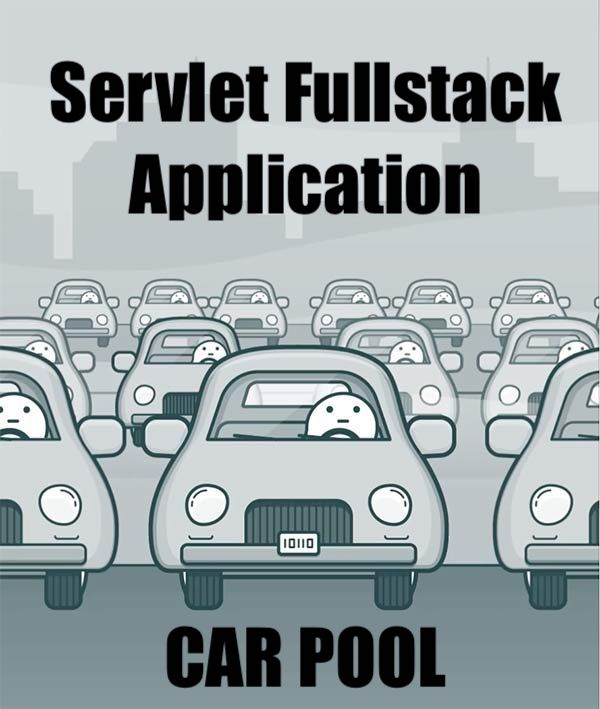
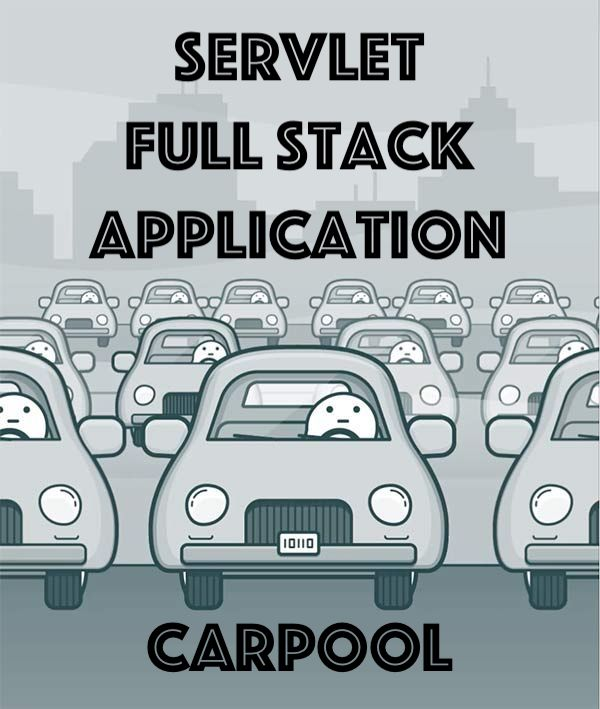
added little fixes

Changed region(s): [[0.06, 0.031, 0.93, 0.3724], [0.24, 0.8688, 0.75, 0.9929]]

diff --git a/README.md b/README.md
@@ -1,7 +1,7 @@
 ![Header](src/main/resources/pictures/car-pool.jpeg)
 
 ##  Description
-A full-stack Java application that uses Servlets and JDBC for the back-end and JSP, HTML, and CSS for the front-end.
+A Full Stack Java application that uses Servlets and JDBC for the back-end and JSP, HTML, and CSS for the front-end.
 The application supports authentication, registration, and other CRUD operations.
 Tomcat is used to handle all requests, ensuring efficient performance.
 
@@ -37,6 +37,21 @@ Project based on Three-Tier architecture:
 - JSP
 - HTML, CSS
 - Cloud services
+
+---
+
+## Implementation details
+- **Models** represent database tables
+- **ConnectionUtil** manages the database connection
+- **DAOs** are responsible for all database interactions
+- **Services** perform business logic and use DAOs for data access
+- All interaction client-server occurs through **Controllers**
+- **Injector** is used for dependency injection
+- **JSP** pages are used for rendering **HTML** and **CSS** to the client
+- **AuthenticationFilter** is implemented to control access to resources
+- The **`web.xml`** file stores application configuration information
+- The **`resources/init_db.sql`** contains statements to create the schema and tables in the database
+- **Tomcat** handles all requests for efficient performance
 
 ---
 
@@ -76,8 +91,7 @@ Project based on Three-Tier architecture:
 - ***Application context***: `"/"`
 10. Run project
 
-**Or you can leave all the settings in the ConnectionUtil.java class and use the cloud database that is already connected and contains test data. The credentials are the same as described under the Amazon Web Services link**
-
+**Or you can leave all the settings unchanged and use the cloud database that is already connected and contains test data. The credentials are the same as described under the Amazon Web Services link**
 
 ---
 
